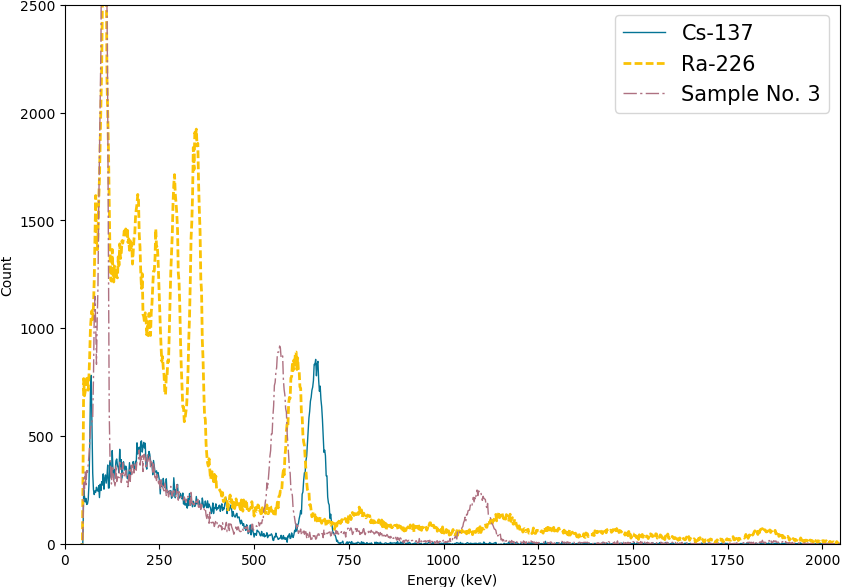
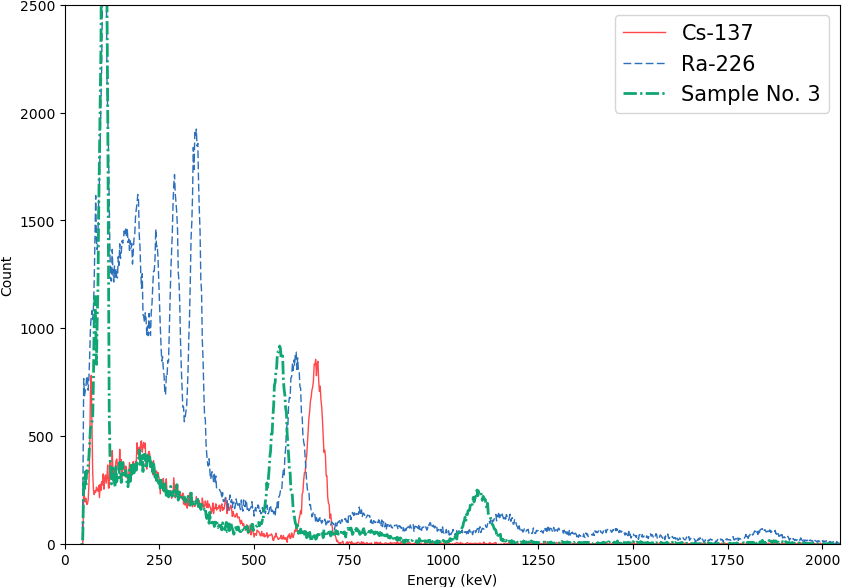
Subtracted local background
Fitted gaussians to clean peaks. This created new sigmas that make more sense.

diff --git a/calibration.py b/calibration.py
@@ -4,11 +4,6 @@ import numpy as np
 import scipy as sp
 from scipy.optimize import curve_fit
 from scipy.stats import linregress
-#from sympy.interactive import printing
-#printing.init_printing(use_latex=True)
-#from IPython.display import display, Math, Latex
-
-
 
 
 N = 1011
@@ -29,74 +24,76 @@ cesium_s2 = slice(280, 348, 1)
 x2 = np.linspace(281, 348, 68)
 cesium_s3 = slice(347, 1011, 1)
 x3 = np.linspace(348, 1011, 664)
-radium_s1 = slice(257, 314, 1)
-ra_x1 = np.linspace(258, 314, 57)
-radium_s2 = slice(138, 175, 1)
-ra_x2 = np.linspace(139, 175, 37)
-radium_s3 = slice(113, 138, 1)
-ra_x3 = np.linspace(114, 138, 25)
-radium_s4 = slice(90, 112, 1)
-ra_x4 = np.linspace(91, 112, 22)
-radium_s5 = slice(68, 85, 1)
-ra_x5 = np.linspace(69, 85, 17)
-
+radium_s1 = slice(254, 306, 1)
+ra_x1 = np.linspace(255, 306, 52)
+radium_s2 = slice(128, 168, 1)
+ra_x2 = np.linspace(129, 168, 40)
+radium_s3 = slice(99, 134, 1)
+ra_x3 = np.linspace(100, 134, 35)
+radium_s4 = slice(79, 112, 1)
+ra_x4 = np.linspace(80, 112, 33)
+radium_s5 = slice(63, 85, 1)
+ra_x5 = np.linspace(64, 85, 22)
 
 ###Define a gaussian curve plus exponential term
-def gaussian(x, sigma, X, c):
-    return (1/(sigma*np.sqrt(2*np.pi))) * np.exp( (-(x-X)**2)/(2*sigma**2) + c)
+def gaussian(x, sigma, X, A):
+    return A*np.exp( (-(x-X)**2)/(2*sigma**2))
 
-###Perform curve fitting of photopeaks
-ce_params2, ce_param_covars2 = curve_fit(gaussian, x2, Cesium[cesium_s2], p0= [1., 320., 1.])
-ra_params1, ra_param_covar1 = curve_fit(gaussian, ra_x1, Radium[radium_s1], p0 = [210., 340., 1.])
-ra_params2, ra_param_covar2 = curve_fit(gaussian, ra_x2, Radium[radium_s2], p0 = [130., 220., 1.])
-ra_params3, ra_param_covar3 = curve_fit(gaussian, ra_x3, Radium[radium_s3], p0 = [110., 140., 1.])
-ra_params4, ra_param_covar4 = curve_fit(gaussian, ra_x4, Radium[radium_s4], p0 = [90., 115., 1.])
-ra_params5, ra_param_covar5 = curve_fit(gaussian, ra_x5, Radium[radium_s5], p0 = [65., 95., 1.])
-print (ce_params2)
-print (ra_params5)
+###Define an exponential to fit the background
+def exponential(x, A, b):
+    return A*np.exp(-x*b)
 
-###Create lists of sigmas and channel numbers: the List Comprehension Way
-energy_calibration1 = [t for t in zip(ce_params2, ra_params1, ra_params2, ra_params3, ra_params4, ra_params5)[:2]]
+#Subtract local background from known spectra
+Radium_clean = Radium - exponential(x, 3500, .0145)
+Cesium_clean = Cesium - exponential(x, 3500, .0145)
 
 
-#print energy_calibration1
+ce_params1, ce_param_covar1 = curve_fit(gaussian, x2, Cesium[cesium_s2], p0 = [100, 340.,1.])
+ra_params1c, ra_param_covar1c = curve_fit(gaussian, ra_x1, Radium_clean[radium_s1], p0 = [100, 340.,1.])
+ra_params2c, ra_param_covar2c = curve_fit(gaussian, ra_x2, Radium_clean[radium_s2], p0 = [130., 220.,1.])
+ra_params3c, ra_param_covar3c = curve_fit(gaussian, ra_x3, Radium_clean[radium_s3], p0 = [110., 140.,1.])
+ra_params4c, ra_param_covar4c = curve_fit(gaussian, ra_x4, Radium_clean[radium_s4], p0 = [90., 115.,1.])
+ra_params5c, ra_param_covar5c = curve_fit(gaussian, ra_x5, Radium_clean[radium_s5], p0 = [65., 95.,1.])
 
-###The Longer Imperative Way
-energy_calibration2 = []
-times = 0
-for t in zip(ce_params2, ra_params1, ra_params2, ra_params3, ra_params4, ra_params5):
-    times+=1
-    if times > 2:
-        break
-    energy_calibration2.append(t)
-
-###Perform curve fitting of energy versus channel no.
-m, b, r_value, p_value, std_err = linregress(energy_calibration1[1], energies)
-
-###Plot spectra with fits
 plt.figure(figsize=(10,7))
-plt.plot(x, Cesium, linewidth=1, color = '#047495', label='Cs-137')
-plt.plot(x, Radium, linewidth=2, color = '#fac205', linestyle = '--', label='Ra-226')
-plt.plot(x2, gaussian(x2, *ce_params2), color = '#02ab2e',  linestyle = '-.', label='Fit curves', )
-plt.plot(ra_x1, gaussian(ra_x1, *ra_params1), color = '#02ab2e', linestyle = '-.')
+plt.plot(x2, gaussian(x2, *ce_params1), color = '#02ab2e',  linestyle = '-.', label='Fit curves')
+plt.plot(ra_x1, gaussian(ra_x1, *ra_params1c), color = '#02ab2e', linestyle = '-.')
+plt.plot(ra_x2, gaussian(ra_x2, *ra_params2c), color = '#02ab2e', linestyle = '-.')
+plt.plot(ra_x3, gaussian(ra_x3, *ra_params3c), color = '#02ab2e', linestyle = '-.')
+plt.plot(ra_x4, gaussian(ra_x4, *ra_params4c), color = '#02ab2e', linestyle = '-.')
+plt.plot(ra_x5, gaussian(ra_x5, *ra_params5c), color = '#02ab2e', linestyle = '-.')\
+
+#plt.plot(x, exponential(x, 3500, 0.0145))
+
 plt.annotate('662 keV', xy=(320, 820), xytext=(320, 820))
-plt.annotate('609 keV', xy=(260, 870), xytext=(260, 870))
-plt.annotate('352 keV', xy=(155, 1880), xytext=(155, 1880))
-plt.annotate('295 keV', xy=(110, 1680), xytext=(110, 1680))
-plt.annotate('242 keV', xy=(90, 1400), xytext=(90, 1400))
-plt.annotate('197 keV', xy=(50, 1530), xytext=(50, 1530))
-plt.plot(ra_x2, gaussian(ra_x2, *ra_params2), color = '#02ab2e', linestyle = '-.')
-plt.plot(ra_x3, gaussian(ra_x3, *ra_params3), color = '#02ab2e', linestyle = '-.')
-plt.plot(ra_x4, gaussian(ra_x4, *ra_params4), color = '#02ab2e', linestyle = '-.')
-plt.plot(ra_x5, gaussian(ra_x5, *ra_params5), color = '#02ab2e', linestyle = '-.')
-#plt.title("Gaussian fit to photopeaks")
-plt.xlim([0,600])
-plt.ylim([0,2500])
+plt.annotate('609 keV', xy=(260, 820), xytext=(260, 820))
+plt.annotate('352 keV', xy=(150, 1600), xytext=(150, 1600))
+plt.annotate('295 keV', xy=(110, 1280), xytext=(110, 1280))
+plt.annotate('242 keV', xy=(85, 600), xytext=(85, 600))
+plt.annotate('197 keV', xy=(52, 530), xytext=(52, 530))
+plt.plot(x, Radium_clean, linewidth=2, color = '#2c6fbb', linestyle = '--', label='Ra-226')
+plt.plot(x, Cesium_clean, linewidth=1, color = '#ff474c', label='Cs-137')
+plt.xlim([0,400])
+plt.ylim([0, 3000])
 plt.xlabel("Channel No.")
 plt.ylabel("Count")
 plt.legend(loc=1, prop={'size': 15})
-plt.savefig("Gaussian_fit_to_photo_peaks_DRAFT.png", bbox_inches="tight", pad_inches=0)
-#plt.show()
+plt.savefig("Gaussian_fit_to_photo_peaks.png", bbox_inches="tight", pad_inches=0)
+plt.show()
+
+#print ra_params1c
+#print ra_params2c
+#print ra_params3c
+#print ra_params4c
+#print ra_params5c
+
+###Create lists of sigmas and channel numbers: the List Comprehension Way
+energy_calibration1 = [t for t in zip(ce_params1, ra_params1c, ra_params2c, ra_params3c, ra_params4c, ra_params5c)[:2]]
+
+#print energy_calibration1
+
+###Perform curve fitting of energy versus channel no.
+m, b, r_value, p_value, std_err = linregress(energy_calibration1[1], energies)
 
 #Plot linear fit
 x = np.arange(50, 350, 1)
@@ -105,32 +102,33 @@ fig, ax = plt.subplots()
 ax.plot((x), m*(x) + b)
 ax.scatter(energy_calibration1[1], energies, )
 textstr = '\n'.join((
-    r'$m=%.2f  (\sigma_{m}=.02)$' % (m, ),
-    r'$b=%.0f   (\sigma_{b}=3.5)$' % (b, )))
+    r'$m=%.2f  (\sigma_{m}=0.02)$' % (m, ),
+    r'$b=%.0f   (\sigma_{b}=3.8)$' % (b, )))
 props = dict(boxstyle='round', facecolor='gray', alpha=0.5)
 ax.text(0.05, 0.95, textstr, transform=ax.transAxes, fontsize=12, verticalalignment='top', bbox=props)
 #plt.title("Channel No. versus Energy")
-B = [312.86, 285.33, 153.22, 125.22, 99.74, 74.90]
+B = [312.86, 285.71, 153.46, 125.73, 100.83, 75.85]
 for xy in zip(B, energies):
     ax.annotate(' (%s, %s keV)' % xy, xy=xy, textcoords='data')
 plt.xlim([0,500])
 plt.ylim([0,800])
 plt.xlabel("Channel No.")
 plt.ylabel("Energy (keV)")
-plt.savefig("Linear_fit_DRAFT.png", bbox_inches="tight", pad_inches=0)
+plt.savefig("Linear_fit.png", bbox_inches="tight", pad_inches=0)
 #plt.show()
+
 
 ###Create new plot with energy on x axis, using linear fit data
 x = np.linspace(44, 2045.78, 1011)  #Define linear space that incorporates linear fit parameters
 plt.figure(figsize=(10,7))
-plt.plot(x, Cesium, linewidth=1, color = '#047495', label='Cs-137')
-plt.plot(x, Radium, linewidth=2, color = '#fac205', linestyle = '--', label='Ra-226')
-plt.plot(x, Unknown, linewidth=1, color = '#ae7181', linestyle = '-.', label='Sample No. 3')
+plt.plot(x, Cesium, linewidth=1, color = '#ff474c', label='Cs-137')
+plt.plot(x, Radium, linewidth=1, color = '#2c6fbb', linestyle = '--', label='Ra-226')
+plt.plot(x, Unknown, linewidth=2, color = '#10a674', linestyle = '-.', label='Sample No. 3')
 plt.xlim([0,2046])
 plt.ylim([0,2500])
 #plt.title('Gamma Spectra (Calibrated)')
 plt.xlabel("Energy (keV)")
 plt.ylabel("Count")
 plt.legend(loc=1, prop={'size': 15})
-plt.savefig("gamma_spectra_calibrated_DRAFT.png", bbox_inches="tight", pad_inches=0)
+plt.savefig("gamma_spectra_calibrated.png", bbox_inches="tight", pad_inches=0)
 #plt.show()

diff --git a/error_calculations.py b/error_calculations.py
@@ -1,4 +1,5 @@
 import calibration
+#import calibration_take_2
 import matplotlib.pyplot as plt
 import numpy as np
 import scipy as sp
@@ -14,7 +15,7 @@ sigma_y = sigma_y(calibration.b, calibration.m, calibration.energy_calibration1[
 
 #Calculate chi^2 uncertainty
 
-#Calculate uncertainty in parameters A and B in y = Bx + A
+#Calculate uncertainty in parameters m and b in y = mx + b
 def delta(x):
     sum1 = 0.0
     sum2 = 0.0
@@ -23,36 +24,41 @@ def delta(x):
         sum2 += (x[i])
     return len(x)*sum1-(sum2)**2
 
-def sigma_A(sig_y, x, delta):
+def sigma_b(sig_y, x, delta):
     sum = 0.0
     for i in range (  len(x)):
         sum += x[i]**2
     return sig_y* np.sqrt( sum / delta )
 
-def sigma_B(sig_y, x, delta):
+def sigma_m(sig_y, x, delta):
     return sig_y* np.sqrt( len(x) / delta )
 
 delta = delta(calibration.energy_calibration1[1])
-sigma_A = sigma_A(sigma_y, calibration.energy_calibration1[1], delta)
-sigma_B = sigma_B(sigma_y, calibration.energy_calibration1[1], delta)
+sigma_b = sigma_b(sigma_y, calibration.energy_calibration1[1], delta)
+sigma_m = sigma_m(sigma_y, calibration.energy_calibration1[1], delta)
 
-#print sigma_A
-#print sigma_B
+print sigma_b
+print sigma_m
 #print calibration.m
 
 
-resolutions = np.array( [[len(calibration.energy_calibration1[1])], [len(calibration.energy_calibration1[1])]], np.int32)
+
 
 #Calculate relative resolution of the detector for each photopeak and compute their average/ with uncertainty
+
+#resolutions = np.array( [[len(calibration.energy_calibration1[1])], [len(calibration.energy_calibration1[1])]], np.int32)
+
 def res(sigma, E):
     res = 0.0
     sum = 0.0
-    for i in range ( len(calibration.energy_calibration1[1])):
-        res =  (2.*sigma[i])*10./E[i]
+    for i in range ( len(calibration.energy_calibration1[0])):
+        res = (2.*abs(sigma[i])*100.*calibration.m)/E[i]
         print res
-        #resolutions.fill(res())
+#        resolutions.fill(res())
         sum += res
-    print (sum/ [len(calibration.energy_calibration1[1])])
+    print (sum/ [len(calibration.energy_calibration1[0])])
 
-resolution = res(calibration.energy_calibration1[1], calibration.energies)
-print resolutions
+
+
+#resolution = res(calibration.energy_calibration1[0], calibration.energies)
+#print resolution
